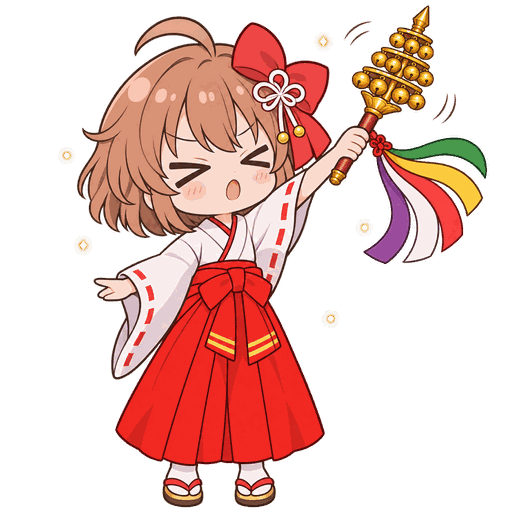
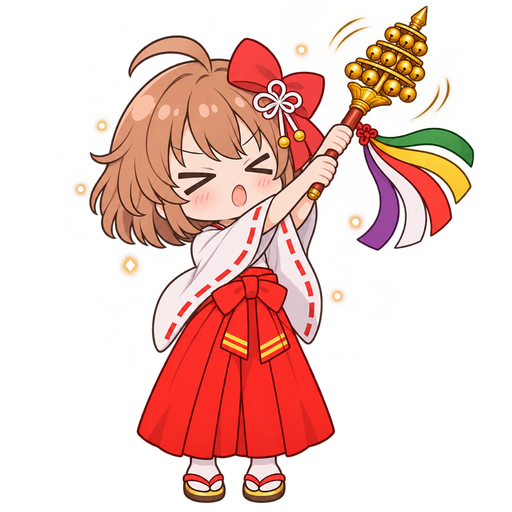
かなえのご祈祷の絵を両手で神楽鈴を振る形に描き直し
Claude-Session: https://claude.ai/code/session_01ExabhAFhoQkYboXbEMhqQ1

Changed region(s): [[0.125, 0.0, 0.9688, 1.0], [0.1562, 0.4688, 0.1875, 0.5]]

diff --git a/qa/2026-11-27-miko-oharai-v2.md b/qa/2026-11-27-miko-oharai-v2.md
@@ -1,0 +1,6 @@
+# QA：かなえのご祈祷の絵（両手で神楽鈴）— 独立QA担当
+結論：公開してよい（はい）
+- オーナー指摘「片手で振っていて腕が3本に見える」→ 2枚とも腕2本・両手で柄を握る形に描き直し（Codex）。拡大確認で破綻なし。
+- 神楽鈴の傾きは1枚目が右・2枚目が左。体の位置のずれは最大1px。
+- normal.png と同じキャラに見える。背景透明。
+- アプリ上で170msごとに2枚が交互に表示されることを確認。エラーなし。
